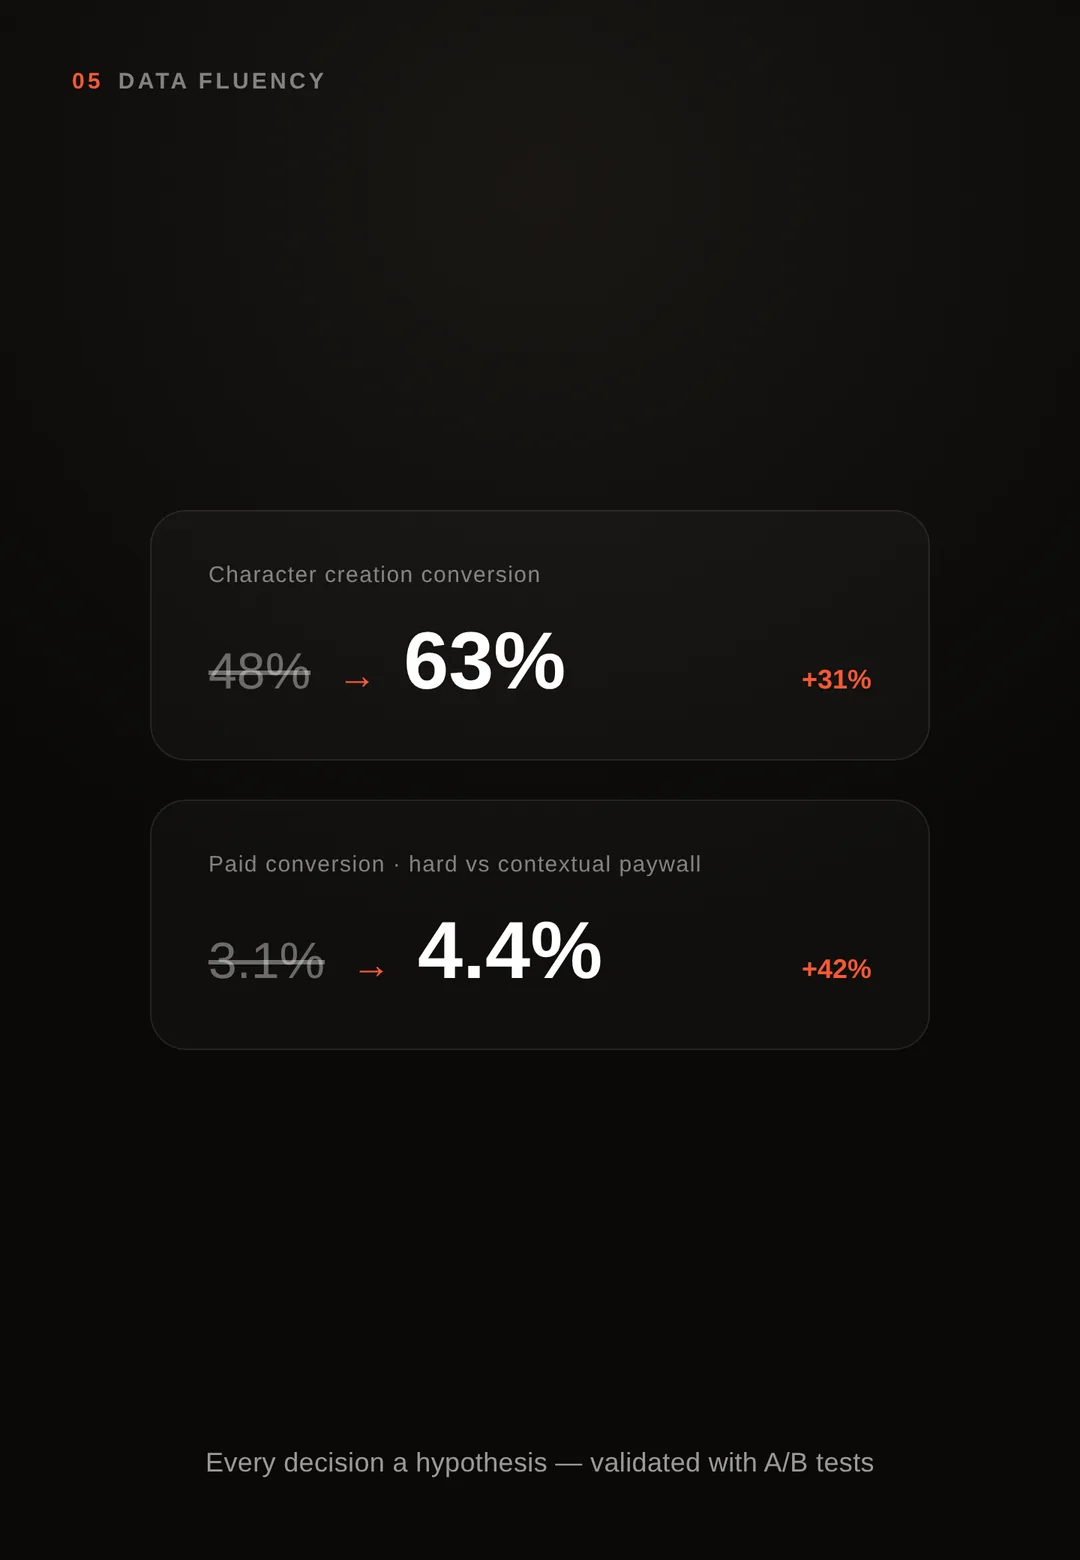
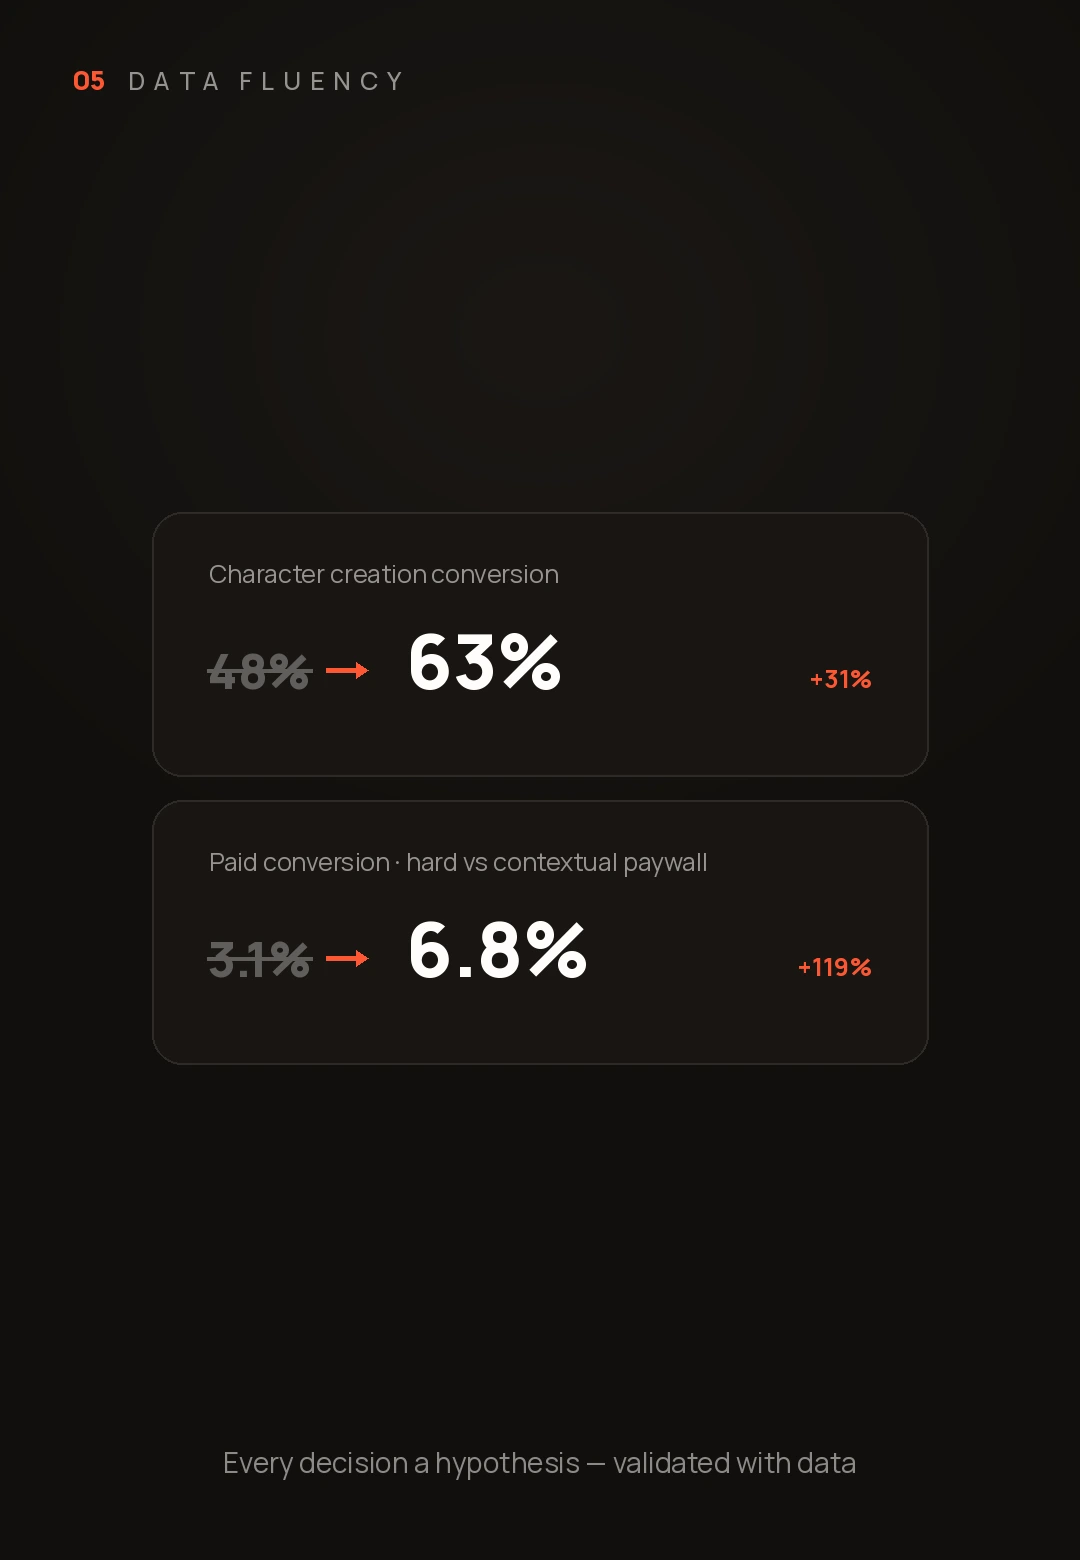
Update portfolio copy, data, carousel and Data Fluency visual

diff --git a/index.html b/index.html
@@ -278,6 +278,9 @@ body{font-weight:400}
 
 /* ===== 呼吸感强化(桌面) ===== */
 .pad-y,.bet{padding-top:clamp(140px,22vh,300px);padding-bottom:clamp(140px,22vh,300px)}
+/* process→screens 两模块间距缩小 50%(各自减半) */
+.phases.pad-y{padding-bottom:clamp(35px,5.5vh,75px)}
+[data-label="screens"].pad-y{padding-top:clamp(35px,5.5vh,75px)}
 .bet .bethead{margin-bottom:clamp(40px,7vw,96px)}
 #about{padding:22vh var(--pad)}
 .eyebrow{margin-bottom:6px}
@@ -288,6 +291,8 @@ p.lead{max-width:54ch}
 /* ===== 移动端适配(流体单位，对齐参考站做法) ===== */
 @media(max-width:920px){
   section,.pad-y,.bet{padding-top:clamp(90px,15vh,170px);padding-bottom:clamp(90px,15vh,170px)}
+  .phases.pad-y{padding-bottom:clamp(22px,3.75vh,42px)}
+  [data-label="screens"].pad-y{padding-top:clamp(22px,3.75vh,42px)}
 }
 @media(max-width:680px){
   #hero{padding:104px var(--pad) 76px}
@@ -348,7 +353,7 @@ p.lead{max-width:54ch}
 @media(max-width:820px){.case-left .case-logo{height:clamp(46px,13vw,90px)}}
 .case-split .case-sub{margin-top:22px;font-size:clamp(17px,1.9vw,23px);color:var(--ink)}
 .case-split .case-meta{margin-top:clamp(40px,6vh,72px)}
-.case-split .northstar{margin-top:clamp(28px,4vh,46px);gap:clamp(22px,2.6vw,46px);justify-content:flex-start}
+.case-split .northstar{margin-top:clamp(28px,4vh,46px);gap:clamp(22px,2.6vw,46px);justify-content:flex-start;overflow:visible;border-radius:0}
 .case-split .northstar .ns{flex:0 0 auto;min-width:0;padding:0}
 .case-split .northstar .ns .v{font-size:clamp(28px,3.2vw,44px);white-space:nowrap}
 .case-split .case-meta{justify-content:flex-start}
@@ -429,7 +434,10 @@ p.lead{max-width:54ch}
 
 /* 用户声音 · 横向自动滚动卡片墙(framer 社区资源 ticker) */
 .rs-ticker{margin-top:clamp(64px,10vh,130px);overflow:hidden;-webkit-mask-image:linear-gradient(90deg,transparent,#000 5%,#000 95%,transparent);mask-image:linear-gradient(90deg,transparent,#000 5%,#000 95%,transparent)}
-.rs-track{display:flex;gap:clamp(18px,2vw,28px);width:max-content;animation:rsscroll 80s linear infinite;will-change:transform}
+.rs-track{display:flex;gap:clamp(18px,2vw,28px);width:max-content;animation:rsscroll 80s linear infinite;will-change:transform;cursor:grab;touch-action:pan-y;user-select:none;-webkit-user-select:none}
+.rs-track.dragging{cursor:grabbing}
+.rs-track.js-driven{animation:none!important}
+.rs-track img{-webkit-user-drag:none;user-drag:none}
 .rs-ticker:hover .rs-track{animation-play-state:paused}
 .rs-card{flex:0 0 auto;width:clamp(240px,24vw,330px);display:block}
 .rs-card .rs-vis{position:relative;aspect-ratio:9/19.5;border-radius:18px;overflow:hidden;border:3px solid #101010;background:var(--card)}
@@ -481,7 +489,7 @@ p.lead{max-width:54ch}
 .c-h.c-left{text-align:left}
 .c-h.c-right{text-align:right}
 .c-links{position:absolute;z-index:3;left:var(--pad);right:var(--pad);top:50%;display:flex;flex-direction:column;align-items:center;text-align:center;gap:clamp(12px,2vh,22px);opacity:0;will-change:opacity,transform}
-.c-links .cl{font-size:clamp(20px,3vw,40px);font-weight:300}
+.c-links .cl{font-size:clamp(26px,4vw,52px);font-weight:500}
 .c-links .cl a{border-bottom:1px solid transparent;padding-bottom:3px;transition:color .3s,border-color .3s}
 .c-links .cl a:hover{color:var(--accent);border-color:var(--accent)}
 @media(max-width:760px){.contact-stage{--ck:.72}.c-imgs .c-img{width:34vw}}
@@ -1258,7 +1266,7 @@ img.gi-bg{position:absolute;inset:0;width:100%;height:100%;object-fit:cover;bord
         <div class="pin-panel" data-i="1">
           <h3>Education &<br>Skills</h3>
           <p class="p-line"><b>China University of Geosciences (Wuhan)</b> · Digital Media Art (B.A.) · 2017&ndash;2021</p>
-          <div class="p-skills"><span>Sketch</span><span>Figma</span><span>Vibe coding (Cursor · Claude Code)</span><span>HTML / CSS</span></div>
+          <div class="p-skills"><span>Sketch</span><span>Figma</span><span>Photoshop</span><span>Illustrator</span><span>After Effects</span><span>Vibe coding (Cursor · Claude Code)</span><span>HTML / CSS</span></div>
         </div>
         <!-- 3 工作经历 + 简历 -->
         <div class="pin-panel" data-i="2">
@@ -1290,7 +1298,7 @@ img.gi-bg{position:absolute;inset:0;width:100%;height:100%;object-fit:cover;bord
       <div class="m"><div class="k">Platform</div><div class="v">iOS / Android / Web</div></div>
     </div>
     <div class="northstar fade d2">
-      <div class="ns"><div class="k">ROI</div><div class="v"><span class="nm">Membership</span> +3%</div></div>
+      <div class="ns"><div class="k">ROI</div><div class="v"><span class="nm">Membership</span> +5%</div></div>
       <div class="ns"><div class="k">First purchase</div><div class="v"><span class="nm">D0 ARPPU</span> $35</div></div>
       <div class="ns"><div class="k">Retention</div><div class="v"><span class="nm">D7</span> +36%</div></div>
     </div>
@@ -1488,7 +1496,6 @@ img.gi-bg{position:absolute;inset:0;width:100%;height:100%;object-fit:cover;bord
             <div class="pw-slide"><img src="assets/Paywall/cta Paywall.webp" alt="Paywall call to action" loading="eager"></div>
             <div class="pw-slide" aria-hidden="true"><img src="assets/Paywall/center Paywall.webp" alt="" loading="eager"></div>
           </div>
-          <div class="pw-dots"><i class="on"></i><i></i><i></i></div>
         </div>
       </div></div>
     </div>
@@ -1518,24 +1525,24 @@ img.gi-bg{position:absolute;inset:0;width:100%;height:100%;object-fit:cover;bord
   <div class="research">
     <div class="r-left fade">
       <h3 class="r-h">Where exactly do<br>users get stuck?</h3>
-      <p class="r-p">Instrumented the creation funnel step by step and ran 14 interviews to locate the heaviest drop-off and the real concerns behind it.</p>
+      <p class="r-p">Instrumented every step of the creation funnel to pinpoint where users drop off: the preference-tags step alone loses 10%, only 50% reach the paywall, and just 10% complete payment.</p>
       <div class="r-stats">
         <div class="rs"><div class="v">48%</div><div class="l">Character creation conversion (funnel end)</div></div>
-        <div class="rs"><div class="v">−23%</div><div class="l">Biggest single-step drop, at &ldquo;preference tags&rdquo;</div></div>
-        <div class="rs"><div class="v">14</div><div class="l">User interviews, qualitative</div></div>
+        <div class="rs"><div class="v">4</div><div class="l">Customizable options — too few steps and tags to personalize</div></div>
+        <div class="rs"><div class="v">98%</div><div class="l">Creation completion rate (final)</div></div>
       </div>
     </div>
     <div class="r-right fade d1">
       <div class="icards">
-        <div class="ic"><span class="ic-tag">Cognitive load</span><h4>No idea what they&rsquo;d get at the end</h4><p>The result only appears last, so users lack a payoff to anticipate and lose momentum step by step.</p></div>
-        <div class="ic"><span class="ic-tag">Flow friction</span><h4>The preference-tags step is too heavy</h4><p>Too many tags, high mental cost — the single biggest drop in the funnel (−23%).</p></div>
-        <div class="ic"><span class="ic-tag">Expectation</span><h4>Waiting on generation breeds anxiety</h4><p>A wait with no progress or preview makes users question whether it&rsquo;s worth continuing.</p></div>
+        <div class="ic"><span class="ic-tag">Result preview</span><h4>No result preview before payment</h4><p>Users can&rsquo;t see the final result before paying, so there&rsquo;s no incentive to pay and ROI stays low.</p></div>
+        <div class="ic"><span class="ic-tag">Customization</span><h4>Too few options, and they&rsquo;re not intuitive</h4><p>Option images don&rsquo;t clearly convey what each choice means and lack appeal, so users don&rsquo;t want to pick.</p></div>
+        <div class="ic"><span class="ic-tag">Paywall</span><h4>The paywall copy is vague</h4><p>Users don&rsquo;t know what they&rsquo;ll actually get after paying.</p></div>
       </div>
     </div>
   </div>
   <div class="r-bottom fade d1">
     <div class="methods"><span class="pill-eyebrow"><span class="d"></span>Methods</span><div class="m-tags"><span>Funnel analytics</span><span>User interviews</span><span>Usability testing</span><span>Competitive analysis</span></div></div>
-    <div class="keybar">The hypothesis driving it all: move result preview <b>up front</b>, face-first, and frame expectations with &ldquo;done in 30 seconds&rdquo; — cut creation anxiety and lift completion.</div>
+    <div class="keybar">The core hypothesis: bring the result preview <b>up front</b> so users see the final outcome early and build anticipation, and frame expectations with &ldquo;done in 30 seconds&rdquo; — easing creation anxiety and lifting completion.</div>
   </div>
 </section>
 
@@ -1568,19 +1575,19 @@ img.gi-bg{position:absolute;inset:0;width:100%;height:100%;object-fit:cover;bord
       
     </div>
     <div class="fade d1"><div class="deltas" style="grid-template-columns:1fr;gap:16px">
-      <div class="delta" style="display:flex;justify-content:space-between;align-items:center;text-align:left"><span class="l" style="margin:0;color:var(--ink-60)">Character creation conversion</span><span class="v">+31%</span></div>
-      <div class="delta" style="display:flex;justify-content:space-between;align-items:center;text-align:left"><span class="l" style="margin:0;color:var(--ink-60)">Avg. creation time</span><span class="v">90s→52s</span></div>
-      <div class="delta" style="display:flex;justify-content:space-between;align-items:center;text-align:left"><span class="l" style="margin:0;color:var(--ink-60)">D1 return</span><span class="v">+22%</span></div>
+      <div class="delta" style="display:flex;justify-content:space-between;align-items:center;text-align:left"><span class="l" style="margin:0;color:var(--ink-60)">Creation completion rate</span><span class="v">80%→98%</span></div>
+      <div class="delta" style="display:flex;justify-content:space-between;align-items:center;text-align:left"><span class="l" style="margin:0;color:var(--ink-60)">Avg. creation time</span><span class="v">15s→54s</span></div>
+      <div class="delta" style="display:flex;justify-content:space-between;align-items:center;text-align:left"><span class="l" style="margin:0;color:var(--ink-60)">D0 first purchase</span><span class="v">$5→$20</span></div>
     </div></div>
   </div>
 </section>
 
 <!-- ===== BET B ===== -->
 <section class="bet wrap" data-label="bet-b">
-  <div class="bethead"><div><span class="pill-eyebrow" style="margin-bottom:14px"><span class="d"></span>Bet 02 · Relationship</span><h2 class="lmask"><span>Gameplay that lifts<br><em>retention + first purchase</em></span></h2></div></div>
+  <div class="bethead"><div><span class="pill-eyebrow" style="margin-bottom:14px"><span class="d"></span>Bet 02 · Customization</span><h2 class="lmask"><span>Put generation<br>in the <em>user&rsquo;s hands</em></span></h2></div></div>
   <div class="two rev" style="margin-top:clamp(50px,8vw,100px)">
-    <div class="t fade"><p class="subhead">Problem</p><p class="lead">Early D7 retention was only 19% and few users made a first purchase — engagement stayed shallow, with no reason to invest.</p></div>
-    <div class="fade d1"><p class="subhead">Insight + Hypothesis</p><div class="quote">Make growth currency (EX) earnable only through genuine chat (anti-farming), and gate higher-tier interactions and Character Cards behind levels — turning emotional investment into both stickiness and a reason to make a first purchase.</div></div>
+    <div class="t fade"><p class="subhead">Problem</p><p class="lead">Interaction content was preset and one-size-fits-all — users could only receive it passively and never got the scenes or storylines they actually wanted. Novelty wore off fast, engagement stayed shallow, and there was little reason to pay.</p></div>
+    <div class="fade d1"><p class="subhead">Insight + Hypothesis</p><div class="quote">In chat, users can pick a preset action or type their own DIY prompt, and the character generates bespoke content — images, video, live action — in real time. By making controllability the highlight, users no longer passively receive content; they direct every generation, and that sense of control deepens immersion and drives both sustained engagement and first purchase.</div></div>
   </div>
   <!-- 左图片 / 右动效面板(整幅出血,撑满屏宽) -->
   <div class="dualfull" style="margin-top:clamp(50px,8vw,100px)">
@@ -1703,13 +1710,13 @@ img.gi-bg{position:absolute;inset:0;width:100%;height:100%;object-fit:cover;bord
       <p class="subhead">Validation · did the data improve</p>
       <div class="ab">
         <div class="card ctrl"><div class="tag">Hard paywall</div><div class="pct">3.1%</div><div class="sub">Paid conversion</div></div>
-        <div class="card exp"><div class="tag">Contextual</div><div class="pct">4.4%</div><div class="sub">Paid conversion</div></div>
+        <div class="card exp"><div class="tag">Contextual</div><div class="pct">6.8%</div><div class="sub">Paid conversion</div></div>
       </div>
       
     </div>
     <div class="fade d1"><div class="deltas" style="grid-template-columns:1fr;gap:16px">
-      <div class="delta" style="display:flex;justify-content:space-between;align-items:center;text-align:left"><span class="l" style="margin:0;color:var(--ink-60)">Paid conversion rate</span><span class="v">+42%</span></div>
-      <div class="delta" style="display:flex;justify-content:space-between;align-items:center;text-align:left"><span class="l" style="margin:0;color:var(--ink-60)">ARPU</span><span class="v">+28%</span></div>
+      <div class="delta" style="display:flex;justify-content:space-between;align-items:center;text-align:left"><span class="l" style="margin:0;color:var(--ink-60)">Paid conversion rate</span><span class="v">3.1%→6.8%</span></div>
+      <div class="delta" style="display:flex;justify-content:space-between;align-items:center;text-align:left"><span class="l" style="margin:0;color:var(--ink-60)">ARPU</span><span class="v">$10→$25</span></div>
       <div class="delta" style="display:flex;justify-content:space-between;align-items:center;text-align:left"><span class="l" style="margin:0;color:var(--ink-60)">7-day repurchase</span><span class="v">+35%</span></div>
     </div></div>
   </div>
@@ -1720,7 +1727,7 @@ img.gi-bg{position:absolute;inset:0;width:100%;height:100%;object-fit:cover;bord
   <span class="pill-eyebrow center fade"><span class="d"></span>User Pain Point</span>
   <h2 class="pv-h fade">One piece of feedback, <em>one iteration</em>.</h2>
   <div class="pv-stats fade d1">
-    <div class="pv-st"><div class="v">72h</div><div class="l">Avg. turnaround on<br>high-frequency feedback</div></div>
+    <div class="pv-st"><div class="v">24h</div><div class="l">Avg. turnaround on<br>high-frequency feedback</div></div>
     <div class="pv-st"><div class="v">+18%</div><div class="l">Next-day retention after<br>onboarding shipped</div></div>
   </div>
   <div class="pv-card fade d1">
@@ -1907,10 +1914,10 @@ img.gi-bg{position:absolute;inset:0;width:100%;height:100%;object-fit:cover;bord
 <section class="wrap pad-y" data-label="outcomes">
   <span class="eyebrow fade">Mechanics → Results</span>
   <div class="lmask" style="margin-top:20px"><span class="allcaps" style="font-size:clamp(30px,5vw,64px)">Three bets,<br>validated results</span></div>
-  <p class="lead fade d1" style="margin-top:24px;max-width:56ch">Each bet shipped with its own A/B test and instrumentation — the deltas sit beside each case above. Here&rsquo;s what I&rsquo;d carry forward.</p>
+  <p class="lead fade d1" style="margin-top:24px;max-width:56ch">Every bet was validated against instrumentation, not opinion: did it actually lift ROI and top-ups? When the data said no, I switched strategy and kept iterating until the numbers genuinely moved. Here&rsquo;s what I&rsquo;d carry forward.</p>
   <div class="two" style="margin-top:clamp(48px,7vw,86px)">
-    <div class="t fade"><p class="subhead">Reflection</p><p class="lead">The first instrumentation didn&rsquo;t separate active vs. passive triggers, blurring attribution; I then pushed for &ldquo;measurement reviewed alongside design&rdquo;, moving data credibility upstream into the design phase.</p></div>
-    <div class="fade d1"><p class="subhead">My contribution</p><p class="lead">I led problem framing, the solutions and instrumentation for all three bets, usability testing and A/B reviews; co-built the generation and onboarding scripts with the ML team, and aligned the monetization funnel with growth.</p></div>
+    <div class="t fade"><p class="subhead">Reflection</p><p class="lead">I treated every bet as a hypothesis to be proven by data, not shipped on conviction. Each one was instrumented to ask a single question — did it actually lift ROI and top-ups? When the numbers didn&rsquo;t move, I dropped the idea and tried another angle, iterating until the data showed a real gain. That validate-or-switch loop is what I&rsquo;d carry into the next product.</p></div>
+    <div class="fade d1"><p class="subhead">My contribution</p><p class="lead">As the designer on these bets, my job was to turn each problem into a UI/UX solution that moved the numbers. I led the solution for every bet, read the funnels and ran the reviews to decide what to keep or swap, designed the right UI/UX for each fix, and kept iterating until the data showed a genuine lift in conversion, ARPU and top-ups.</p></div>
   </div>
 </section>
 
@@ -1928,7 +1935,7 @@ img.gi-bg{position:absolute;inset:0;width:100%;height:100%;object-fit:cover;bord
           <div class="sf-item" data-i="1"><h3 class="sf-t">Systems Design</h3><div class="sf-desc"><div><p>Design interlocking systems: <b>progression levels, dual currencies, creator subscriptions</b> — connecting the retention × monetization loop.</p></div></div></div>
           <div class="sf-item" data-i="2"><h3 class="sf-t">Interaction Design</h3><div class="sf-desc"><div><p>Tame <b>high-complexity flows</b>: the creation funnel, real-time calls, 80+ screens of navigation — mobile-first, with predictable states.</p></div></div></div>
           <div class="sf-item" data-i="3"><h3 class="sf-t">Growth & Monetization</h3><div class="sf-desc"><div><p>Trigger payment <b>contextually at high-intent moments</b>: paywalls, VIP tiers, tier-skip and save flows — balancing conversion and experience.</p></div></div></div>
-          <div class="sf-item" data-i="4"><h3 class="sf-t">Data Fluency</h3><div class="sf-desc"><div><p>Own <b>instrumentation and A/B experiments</b> end to end, treating every decision as a hypothesis to validate with data.</p></div></div></div>
+          <div class="sf-item" data-i="4"><h3 class="sf-t">Data Fluency</h3><div class="sf-desc"><div><p>Own <b>instrumentation</b> end to end and treat every decision as a hypothesis — reading the funnels to keep or switch strategy until the data genuinely moves: paid conversion <b>3.1%→6.8%</b>, ARPU <b>$10→$25</b>.</p></div></div></div>
         </div>
         <div class="sf-visuals">
           <div class="sf-vis active"><div class="frame"><img src="assets/skill-01.webp" loading="lazy" decoding="async" onerror="this.remove()" alt="Product strategy — For You discovery feed and product structure"><div class="ph-slot"><div class="inner"><div class="no">01</div><div class="t">Problem framing / trade-offs</div><span class="fname">skill-01.webp</span></div></div></div></div>
@@ -2366,6 +2373,49 @@ if(rot){let i=0;setInterval(()=>{i=(i+1)%words.length;rot.style.opacity=0;rot.st
     panels.forEach((pn,i)=>pn.classList.toggle('active',i===idx));
   }
   addEventListener('scroll',pinUpd,{passive:true});addEventListener('resize',pinUpd);pinUpd();
+})();
+
+/* onboarding ticker · JS 无缝循环 + 左右拖动(替代纯 CSS marquee:gap 不计入 -50% 导致末尾停顿/接缝) */
+(function(){
+  const ticker=document.querySelector('.rs-ticker'); if(!ticker)return;
+  const track=ticker.querySelector('.rs-track'); if(!track)return;
+  const reduce=matchMedia('(prefers-reduced-motion: reduce)').matches;
+  track.classList.add('js-driven');               // 关掉 CSS 动画,改 JS 驱动
+  let x=0, half=0, speed=0, last=null;
+  let hovered=false, dragging=false, startX=0, startOff=0, moved=false;
+  function measure(){
+    const cs=getComputedStyle(track);
+    const gap=parseFloat(cs.columnGap||cs.gap||0)||0;
+    half=(track.scrollWidth+gap)/2;               // 一组(5卡+5间隔)的真实宽度
+    speed=half/80;                                // 与原 80s 节奏一致
+  }
+  function wrap(){ if(half<=0)return; x%=half; if(x>0)x-=half; } // 收进 (-half,0]
+  function apply(){ track.style.transform='translateX('+x+'px)'; }
+  measure(); apply();
+  addEventListener('resize',()=>{ measure(); wrap(); apply(); });
+  function tick(t){
+    if(last==null)last=t; const dt=(t-last)/1000; last=t;
+    if(!dragging && !hovered && !reduce){ x-=speed*dt; wrap(); apply(); }
+    requestAnimationFrame(tick);
+  }
+  requestAnimationFrame(tick);
+  ticker.addEventListener('mouseenter',()=>hovered=true);
+  ticker.addEventListener('mouseleave',()=>hovered=false);
+  function down(e){ dragging=true; moved=false; track.classList.add('dragging');
+    startX=(e.touches?e.touches[0].clientX:e.clientX); startOff=x; }
+  function move(e){ if(!dragging)return;
+    const px=(e.touches?e.touches[0].clientX:e.clientX), dx=px-startX;
+    if(Math.abs(dx)>4)moved=true;
+    x=startOff+dx; wrap(); apply();
+    if(moved && e.cancelable)e.preventDefault();
+  }
+  function up(){ if(!dragging)return; dragging=false; track.classList.remove('dragging'); }
+  track.addEventListener('mousedown',down);
+  addEventListener('mousemove',move); addEventListener('mouseup',up);
+  track.addEventListener('touchstart',down,{passive:true});
+  track.addEventListener('touchmove',move,{passive:false}); addEventListener('touchend',up);
+  track.addEventListener('dragstart',e=>e.preventDefault());
+  track.addEventListener('click',e=>{ if(moved){e.preventDefault();e.stopPropagation();} },true);
 })();
 </script>
 </body>